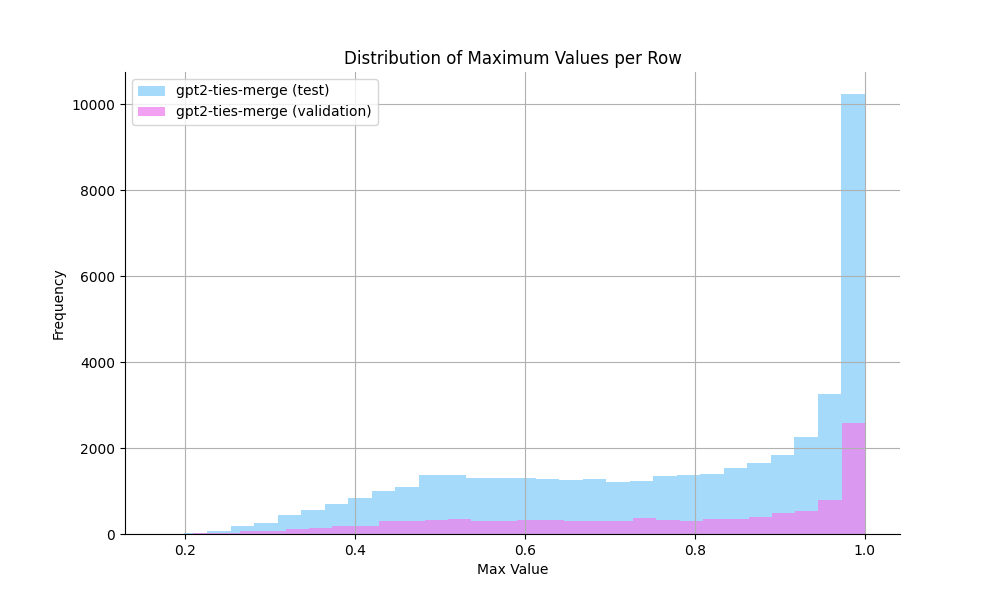
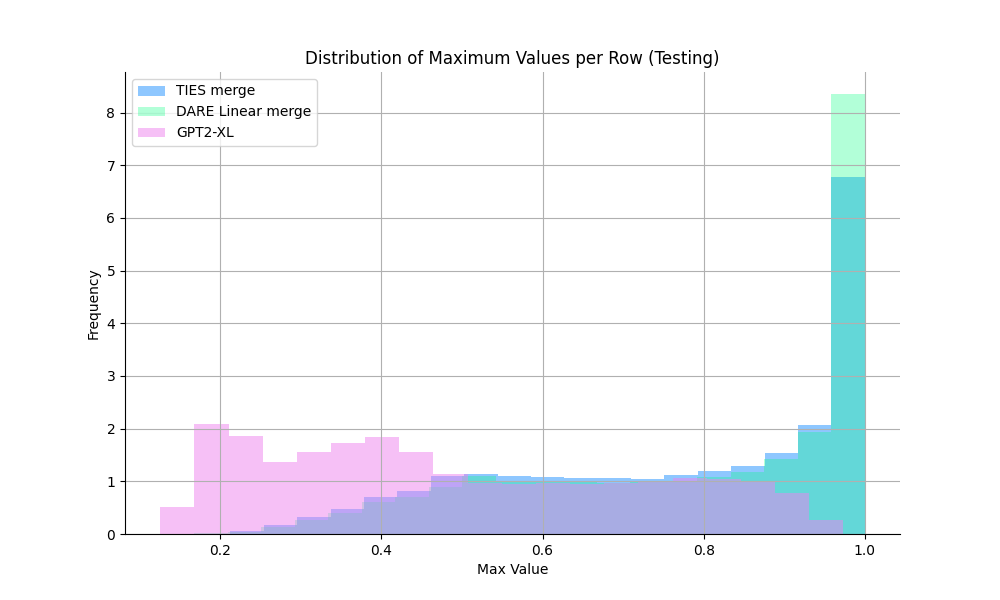
visualized proabilitiesD

diff --git a/notebooks/test_loss_exp.py b/notebooks/test_loss_exp.py
@@ -22,37 +22,57 @@ import os
 
 fs = pyxet.XetFS()
 
-# |%%--%%| <zaXx0yw20g|1vPiao2xcN>
+# |%%--%%| <zaXx0yw20g|3WzLxPYYUB>
 
 # get to correct directory
 # os.chdir("./test_loss_exp/")
 
 print(os.getcwd())
 
+#|%%--%%| <3WzLxPYYUB|Fh6sWFkqI7>
 
-#|%%--%%| <1vPiao2xcN|KCkw4KfUIQ>
+# load all probabilities
 
-df_test = pl.read_csv("test_loss_exp/test_probabilities.csv")
-df_val = pl.read_csv("test_loss_exp/validation_probabilities.csv")
+# ties merge
+ties_test = pl.read_csv("test_loss_exp/test_probabilities.csv")
+ties_val = pl.read_csv("test_loss_exp/validation_probabilities.csv")
+
+# dare linear merge
+dare_lin_test = pl.read_csv("test_loss_exp/dare_linear_test_probabilities.csv")
+dare_lin_val = pl.read_csv("test_loss_exp/dare_linear_validation_probabilities.csv")
+
+# GPT2-XL 
+gpt2_xl_test = pl.read_csv("test_loss_exp/gpt2_xl_test_probabilities.csv")
+gpt2_xl_val = pl.read_csv("test_loss_exp/gpt2_xl_validation_probabilities.csv")
+
+
+#|%%--%%| <Fh6sWFkqI7|eLq6t46PoP>
 
 # create dataframes with only the probabilities
-df_test_probs = df_test.select(pl.exclude("true_label"))
-df_val_probs = df_val.select(pl.exclude("true_label"))
+ties_test_probs = ties_test.select(pl.exclude("true_label"))
+ties_val_probs = ties_val.select(pl.exclude("true_label"))
 
-#|%%--%%| <KCkw4KfUIQ|enSpeRK2EP>
+dare_lin_test_probs = dare_lin_test.select(pl.exclude("true_label"))
+dare_lin_val_probs = dare_lin_val.select(pl.exclude("true_label"))
 
-df_test.shape
-df_test.head()
+gpt2_xl_test_probs = gpt2_xl_test.select(pl.exclude("true_label"))
+gpt2_xl_val_probs = gpt2_xl_val.select(pl.exclude("true_label"))
 
-#|%%--%%| <enSpeRK2EP|jphG4SNWO1>
+#|%%--%%| <eLq6t46PoP|jphG4SNWO1>
 
 # get distribution of max values
+ties_test_maxes = ties_test_probs.with_columns(max = pl.max_horizontal(ties_test_probs.columns))
+ties_val_maxes = ties_val_probs.with_columns(max = pl.max_horizontal(ties_val_probs.columns))
 
-df_test_maxes = df_test_probs.with_columns(max = pl.max_horizontal(df_test_probs.columns))
-df_val_maxes = df_val_probs.with_columns(max = pl.max_horizontal(df_val_probs.columns))
+
+dare_lin_test_maxes = dare_lin_test_probs.with_columns(max = pl.max_horizontal(dare_lin_test_probs.columns))
+dare_lin_val_maxes = dare_lin_val_probs.with_columns(max = pl.max_horizontal(dare_lin_val_probs.columns))
+
+gpt2_xl_test_maxes = gpt2_xl_test_probs.with_columns(max = pl.max_horizontal(gpt2_xl_test_probs.columns))
+gpt2_xl_val_maxes = gpt2_xl_val_probs.with_columns(max = pl.max_horizontal(gpt2_xl_val_probs.columns))
+
 
 #|%%--%%| <jphG4SNWO1|vvCOfdMBjs>
-
 
 # Plotting the distribution
 plt.figure(figsize = (10, 6), dpi = 100)
@@ -60,9 +80,11 @@ ax = plt.gca()
 ax.spines['top'].set_visible(False)
 ax.spines['right'].set_visible(False)
 
-plt.hist(df_test_maxes.select("max"), bins = 30, alpha = 0.75, label = "gpt2-ties-merge (test)", color='lightskyblue')
-plt.hist(df_val_maxes.select("max"), bins = 30, alpha = 0.75, label = "gpt2-ties-merge (validation)", color='violet')
-plt.title('Distribution of Maximum Values per Row')
+plt.hist(ties_test_maxes.select("max"), bins = 20, density = True, alpha = 0.5, label = "TIES merge", color='dodgerblue')
+plt.hist(dare_lin_test_maxes.select("max"), bins = 20, density = True, alpha = 0.3, label = "DARE Linear merge", color='springgreen')
+plt.hist(gpt2_xl_test_maxes.select("max"), bins = 20, density = True, alpha = 0.5, label = "GPT2-XL", color='violet')
+#plt.hist(ties_val_maxes.select("max"), bins = 30, alpha = 0.75, label = "gpt2-ties-merge (validation)", color='violet')
+plt.title('Distribution of Maximum Values per Row (Testing)')
 plt.xlabel('Max Value')
 plt.ylabel('Frequency')
 plt.grid(True)
@@ -71,6 +93,23 @@ plt.savefig("notebooks/images/max_distributions.png")
 plt.show()
 
 #|%%--%%| <vvCOfdMBjs|SbuiSHsCrv>
+
+counts, bins, _ = plt.hist(ties_test_maxes.select("max"), bins = 20, density = True, alpha = 0.5, label = "TIES merge", color='dodgerblue')
+counts = (ties_test_maxes.select("max") / sum(ties_test_maxes.select("max"))) * 100
+
+weights = np.ones_like(ties_test_maxes.select("max")) / len(ties_test_maxes.select("max")) * 100
+ties_test_maxes.shape
+print(weights.shape)
+plt.hist(, bins = bins, weights = weights, alpha = 0.5)
+# plt.hist(ties_test_maxes.select("max"), bins = 20, density = True, alpha = 0.5, label = "TIES merge", color='dodgerblue')
+
+
+#|%%--%%| <SbuiSHsCrv|cZWMd5q3yC>
+
+
+
+
+
 
 
 
